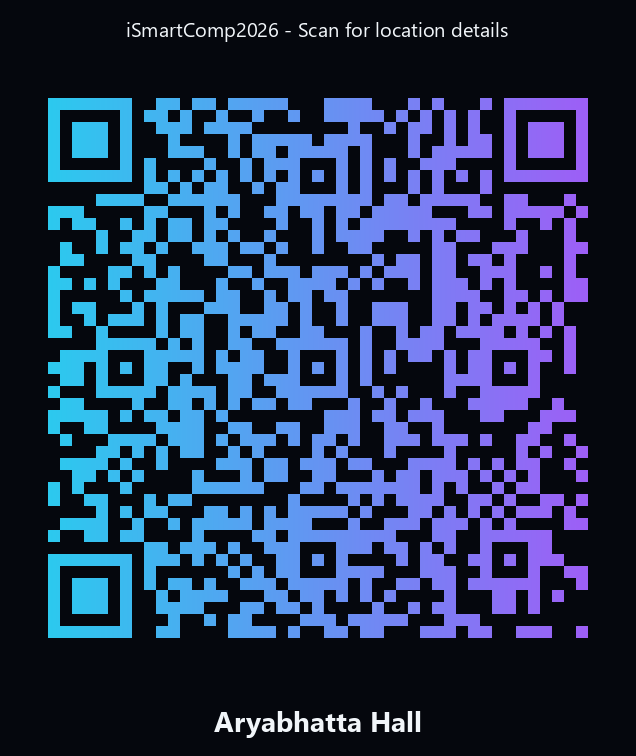
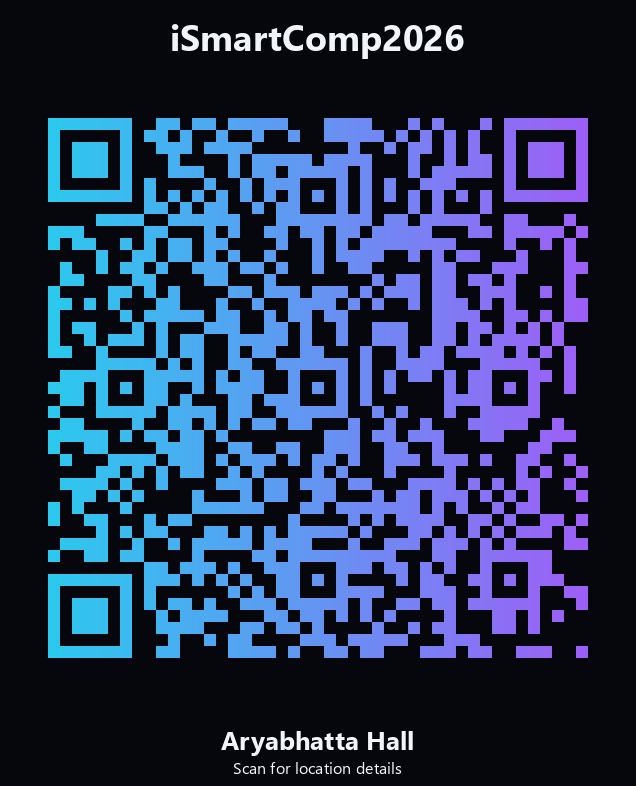
Make conference title bold at the top and other info at bottom

diff --git a/scripts/generate_qr.py b/scripts/generate_qr.py
@@ -16,7 +16,7 @@ with open(LOCATIONS_FILE, "r", encoding="utf-8") as f:
 
 locations = sorted(locations, key=lambda loc: loc["id"])
 
-def create_labeled_qr(data, text, filename, subtitle="iSmartComp2026 - Scan for location details"):
+def create_labeled_qr(data, text, filename, subtitle="Scan for location details"):
     qr = qrcode.QRCode(
         version=1,
         error_correction=qrcode.constants.ERROR_CORRECT_H,
@@ -42,8 +42,8 @@ def create_labeled_qr(data, text, filename, subtitle="iSmartComp2026 - Scan for 
     
     # Calculate sizes
     qr_w, qr_h = qr_img.size
-    header_h = 50  # Space for conference title at top
-    footer_h = 70  # Space for location name at bottom
+    header_h = 70  # Space for conference title at top
+    footer_h = 80  # Space for location name and instructions at bottom
     
     # Create new image with extra space at top and bottom
     new_img = Image.new('RGB', (qr_w, qr_h + header_h + footer_h), bg_color)
@@ -53,29 +53,38 @@ def create_labeled_qr(data, text, filename, subtitle="iSmartComp2026 - Scan for 
     
     # Try to load appealing fonts (Segoe UI on Windows), fallback to Arial, then default
     try:
-        font_title = ImageFont.truetype("segoeuib.ttf", 28) # Segoe UI Bold (Location name)
-        font_sub = ImageFont.truetype("segoeui.ttf", 20)    # Segoe UI Regular (Conference title)
+        font_main_title = ImageFont.truetype("segoeuib.ttf", 36) # Conference Title (Header)
+        font_loc_name = ImageFont.truetype("segoeuib.ttf", 26)   # Location Name (Footer)
+        font_sub = ImageFont.truetype("segoeui.ttf", 16)         # Instructions (Footer)
     except IOError:
         try:
-            font_title = ImageFont.truetype("arialbd.ttf", 26)
-            font_sub = ImageFont.truetype("arial.ttf", 18)
+            font_main_title = ImageFont.truetype("arialbd.ttf", 36)
+            font_loc_name = ImageFont.truetype("arialbd.ttf", 26)
+            font_sub = ImageFont.truetype("arial.ttf", 16)
         except IOError:
-            font_title = ImageFont.load_default()
+            font_main_title = ImageFont.load_default()
+            font_loc_name = ImageFont.load_default()
             font_sub = ImageFont.load_default()
             
-    # Center header (conference title/subtitle)
-    bbox_sub = draw.textbbox((0, 0), subtitle, font=font_sub)
-    text_w_sub = bbox_sub[2] - bbox_sub[0]
-    text_x_sub = (qr_w - text_w_sub) // 2
-    text_y_sub = (header_h - (bbox_sub[3] - bbox_sub[1])) // 2  # Center vertically in header
-    draw.text((text_x_sub, text_y_sub), subtitle, fill=text_color, font=font_sub)
+    # Draw Header (Conference Title)
+    conf_title = "iSmartComp2026"
+    bbox_conf = draw.textbbox((0, 0), conf_title, font=font_main_title)
+    text_x_conf = (qr_w - (bbox_conf[2] - bbox_conf[0])) // 2
+    text_y_conf = (header_h - (bbox_conf[3] - bbox_conf[1])) // 2 - 5
+    draw.text((text_x_conf, text_y_conf), conf_title, fill=text_color, font=font_main_title)
 
-    # Center footer (location name/text)
-    bbox_title = draw.textbbox((0, 0), text, font=font_title)
-    text_w_title = bbox_title[2] - bbox_title[0]
-    text_x_title = (qr_w - text_w_title) // 2
-    text_y_title = header_h + qr_h + 15
-    draw.text((text_x_title, text_y_title), text, fill=text_color, font=font_title)
+    # Draw Footer (Location Name)
+    bbox_loc = draw.textbbox((0, 0), text, font=font_loc_name)
+    text_x_loc = (qr_w - (bbox_loc[2] - bbox_loc[0])) // 2
+    text_y_loc = header_h + qr_h + 15
+    draw.text((text_x_loc, text_y_loc), text, fill=text_color, font=font_loc_name)
+    
+    # Draw Footer (Instructions)
+    instruction_text = subtitle
+    bbox_inst = draw.textbbox((0, 0), instruction_text, font=font_sub)
+    text_x_inst = (qr_w - (bbox_inst[2] - bbox_inst[0])) // 2
+    text_y_inst = text_y_loc + 35
+    draw.text((text_x_inst, text_y_inst), instruction_text, fill=text_color, font=font_sub)
     
     filepath = os.path.join(OUTPUT_FOLDER, filename)
     new_img.save(filepath)
